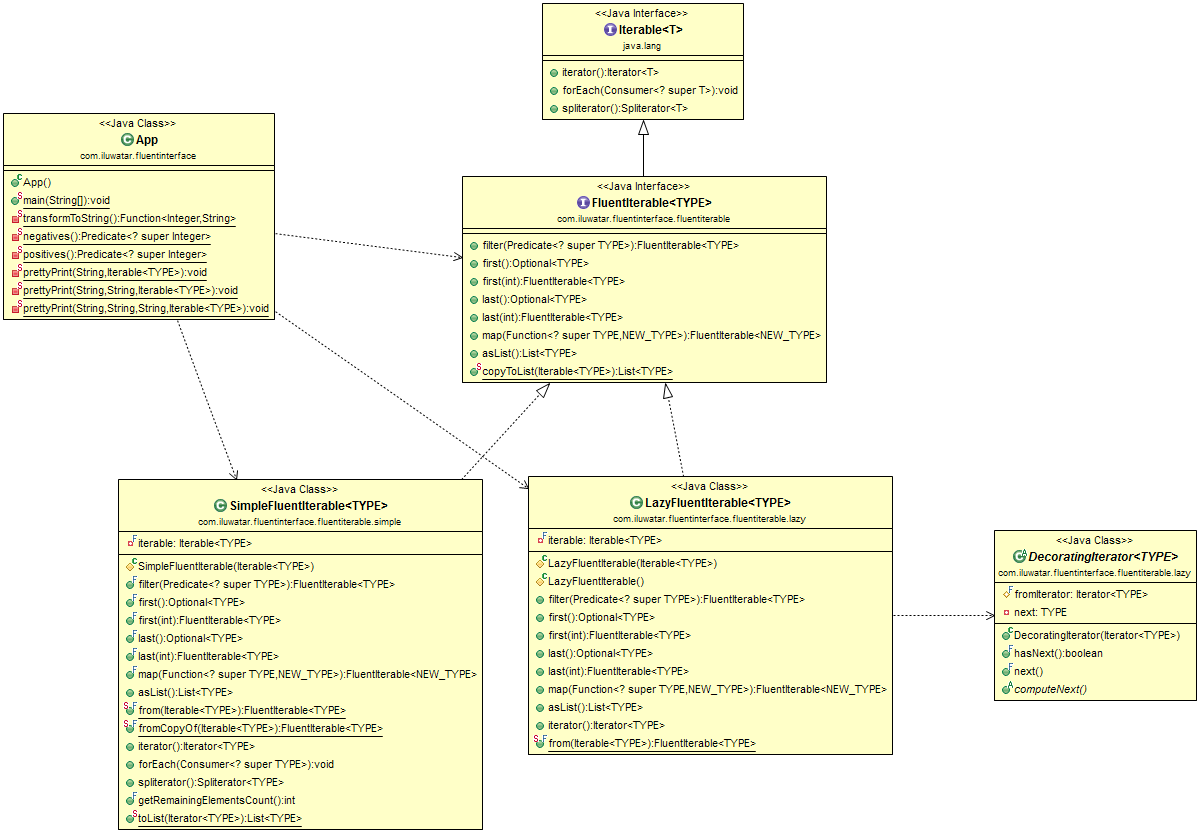
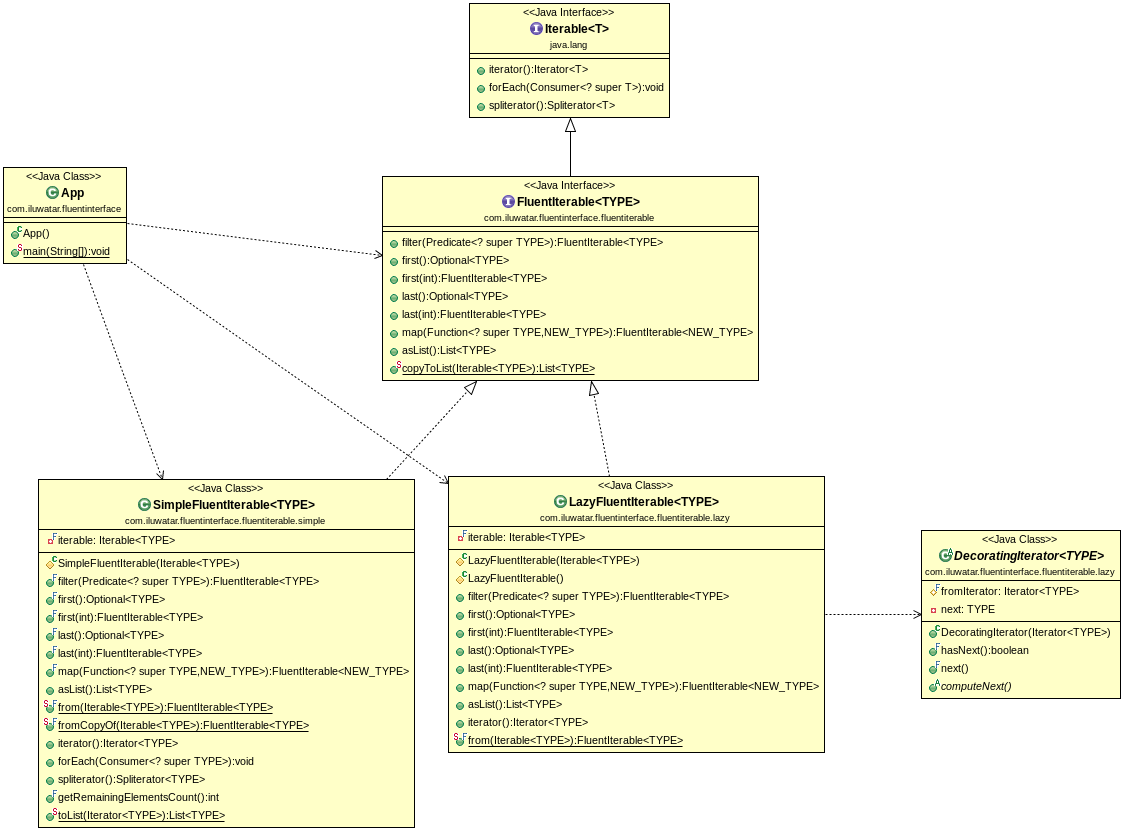
#184 polished a few rough edges, class diagram change, and removed warnings

diff --git a/fluentinterface/src/main/java/com/iluwatar/fluentinterface/App.java b/fluentinterface/src/main/java/com/iluwatar/fluentinterface/App.java
@@ -25,27 +25,12 @@ public class App {
 
   public static void main(String[] args) {
 
-    List<Integer> integerList = new ArrayList<Integer>() {
-      {
-        add(1);
-        add(-61);
-        add(14);
-        add(-22);
-        add(18);
-        add(-87);
-        add(6);
-        add(64);
-        add(-82);
-        add(26);
-        add(-98);
-        add(97);
-        add(45);
-        add(23);
-        add(2);
-        add(-68);
-        add(45);
-      }
-    };
+    List<Integer> integerList = new ArrayList<>();
+    integerList.addAll(Arrays.asList(
+    		1, -61, 14, -22, 18, -87, 6, 64, -82, 26, -98, 97,
+    		45, 23, 2, -68, 45
+    ));
+    
     prettyPrint("The initial list contains: ", integerList);
 
     List<Integer> firstFiveNegatives =
@@ -103,10 +88,6 @@ public class App {
 
   private static <TYPE> void prettyPrint(String prefix, Iterable<TYPE> iterable) {
     prettyPrint(", ", prefix, ".", iterable);
-  }
-
-  private static <TYPE> void prettyPrint(String prefix, String suffix, Iterable<TYPE> iterable) {
-    prettyPrint(", ", prefix, suffix, iterable);
   }
 
   private static <TYPE> void prettyPrint(String delimiter, String prefix, String suffix,

diff --git a/fluentinterface/src/main/java/com/iluwatar/fluentinterface/fluentiterable/lazy/LazyFluentIterable.java b/fluentinterface/src/main/java/com/iluwatar/fluentinterface/fluentiterable/lazy/LazyFluentIterable.java
@@ -1,14 +1,13 @@
 package com.iluwatar.fluentinterface.fluentiterable.lazy;
 
-import com.iluwatar.fluentinterface.fluentiterable.FluentIterable;
-
 import java.util.ArrayList;
 import java.util.Iterator;
 import java.util.List;
 import java.util.Optional;
-import java.util.function.Consumer;
 import java.util.function.Function;
 import java.util.function.Predicate;
+
+import com.iluwatar.fluentinterface.fluentiterable.FluentIterable;
 
 /**
  * This is a lazy implementation of the FluentIterable interface. It evaluates all chained

diff --git a/fluentinterface/src/main/java/com/iluwatar/fluentinterface/fluentiterable/simple/SimpleFluentIterable.java b/fluentinterface/src/main/java/com/iluwatar/fluentinterface/fluentiterable/simple/SimpleFluentIterable.java
@@ -124,7 +124,7 @@ public class SimpleFluentIterable<TYPE> implements FluentIterable<TYPE> {
    */
   @Override
   public final <NEW_TYPE> FluentIterable<NEW_TYPE> map(Function<? super TYPE, NEW_TYPE> function) {
-    List<NEW_TYPE> temporaryList = new ArrayList();
+    List<NEW_TYPE> temporaryList = new ArrayList<>();
     Iterator<TYPE> iterator = iterator();
     while (iterator.hasNext()) {
       temporaryList.add(function.apply(iterator.next()));
